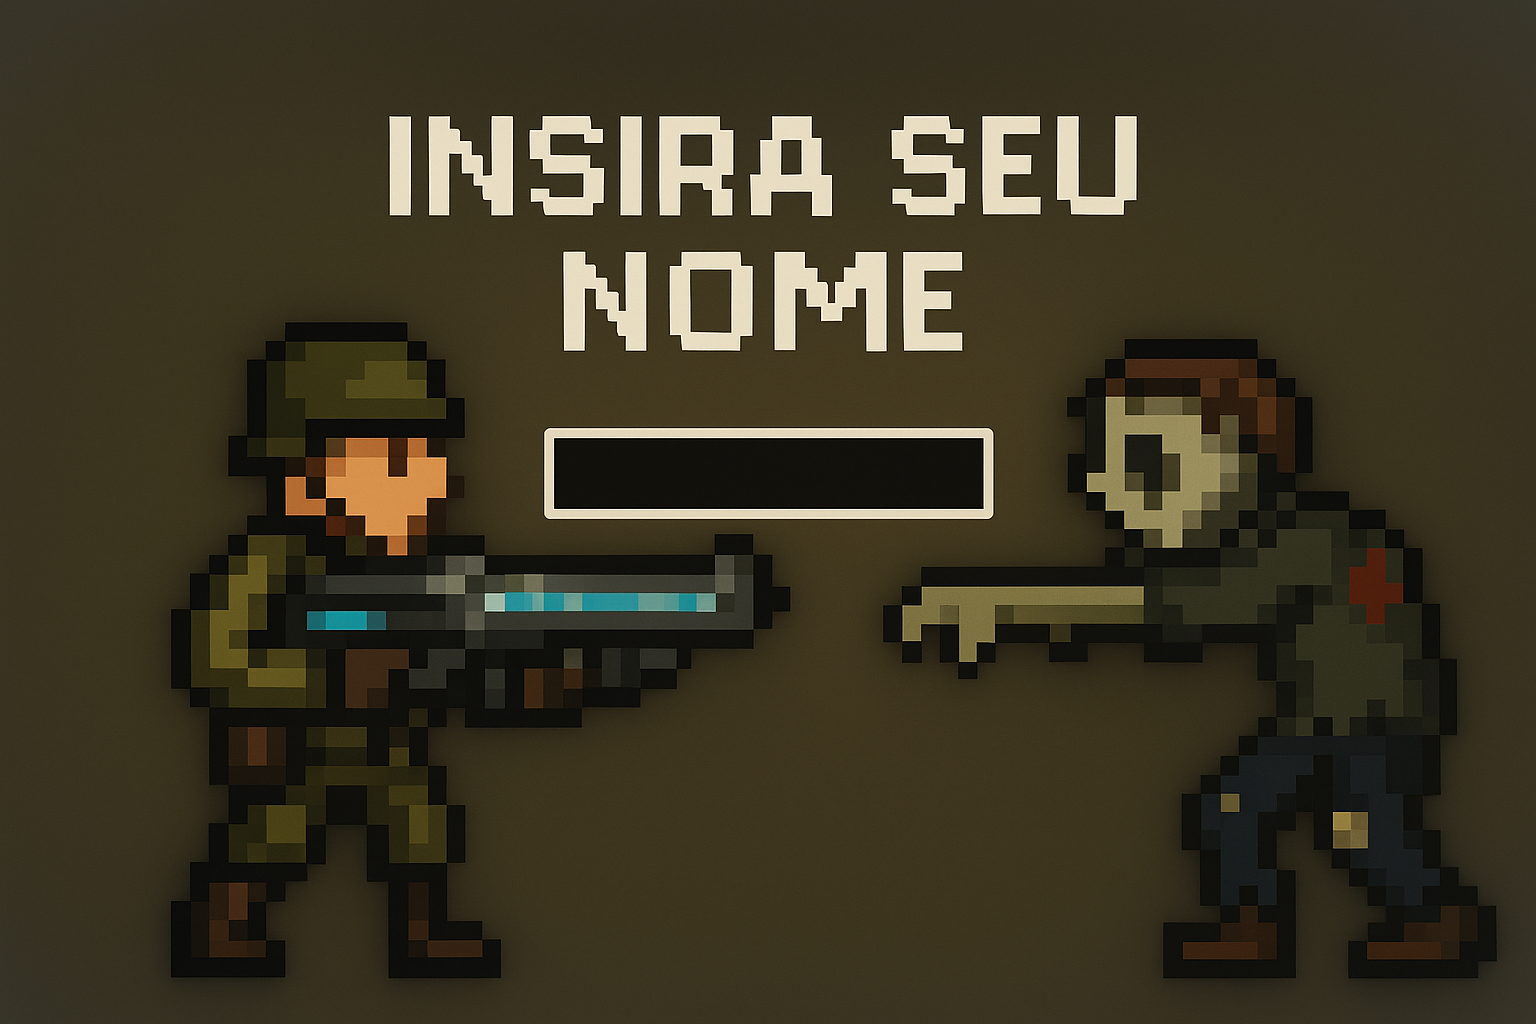
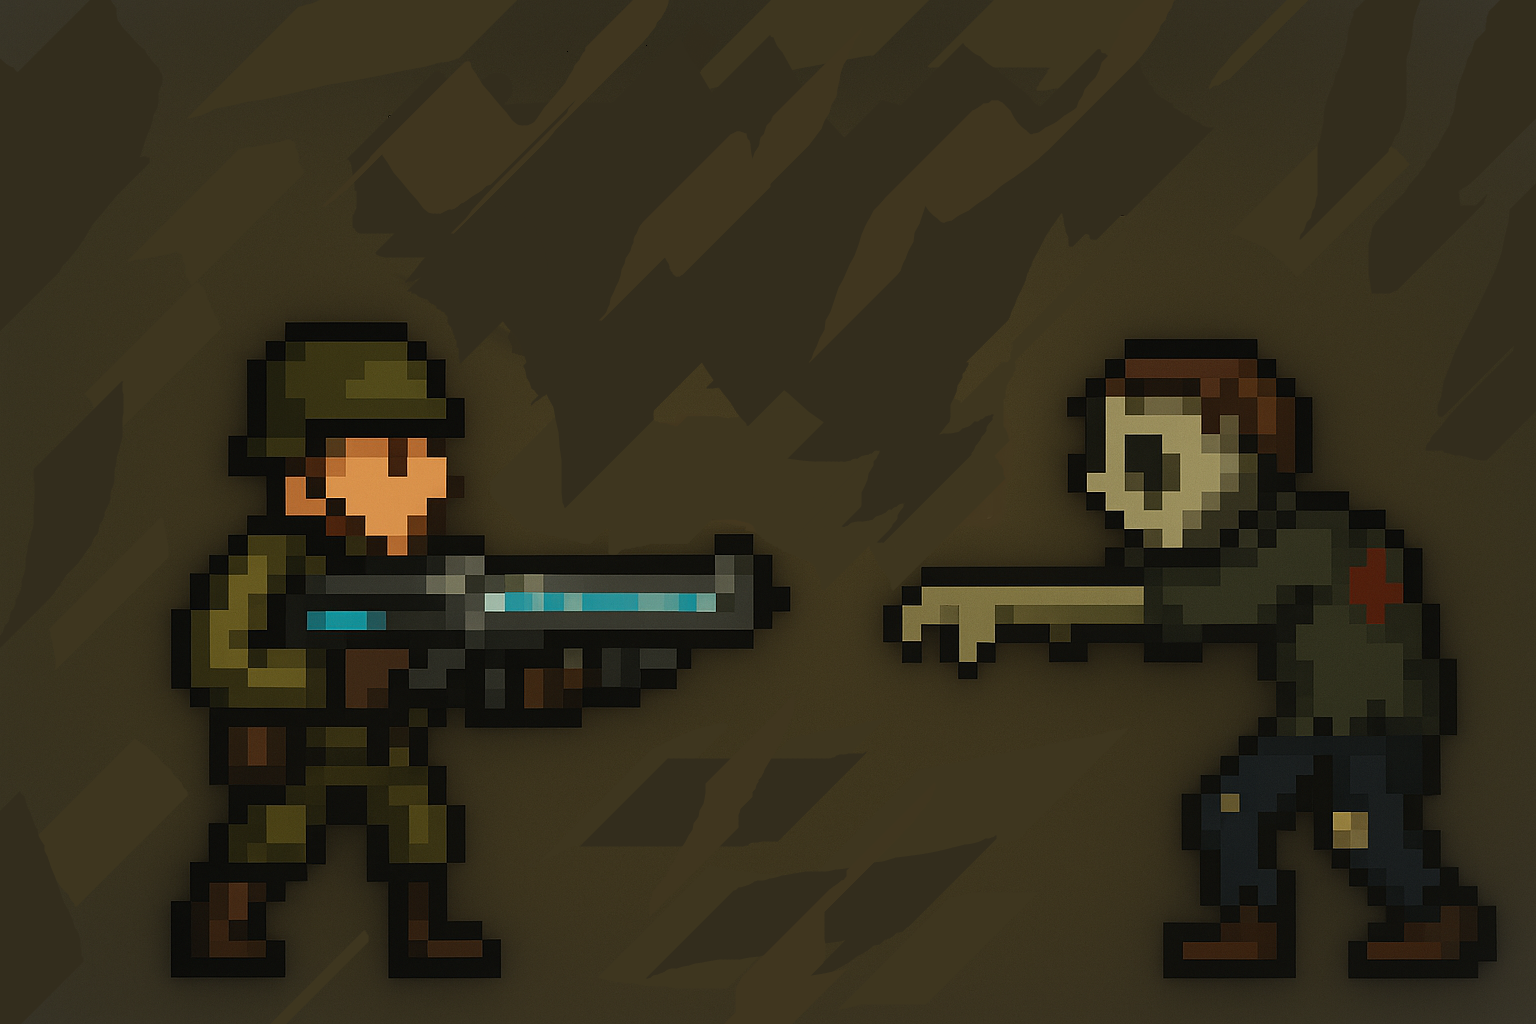
novo commit, atualização e melhora no sistema de voz, incremento nova foto de fundo inicio e melhora nos codigos

Changed region(s): [[0.25, 0.0938, 0.75, 0.3438], [0.3438, 0.4062, 0.6562, 0.5312]]

diff --git a/main.py b/main.py
@@ -1,20 +1,20 @@
 
 import pygame, random, os, math, datetime
-from recursos.funcoes import limparTela, aguarde, reconhecimentoVoz, pc_falar
+import speech_recognition as sr
+import pyttsx3
 
 pygame.init()
 pygame.mixer.init()
 
-# --- Configurações da Tela ---
 LARGURA, ALTURA = 1000, 700
 TELA = pygame.display.set_mode((LARGURA, ALTURA))
 pygame.display.set_caption("Defenda o Tesouro")
 
-# --- Cores ---
 BRANCO = (255, 255, 255)
 VERMELHO = (255, 0, 0)
+CINZA_CLARO = (200, 200, 200)
+PRETO = (0, 0, 0)
 
-# --- Função para Carregar Imagens ---
 def carregar_imagem(nome, tamanho=None):
     caminho = os.path.join(os.path.dirname(__file__), "recursos", nome)
     if not os.path.exists(caminho):
@@ -24,13 +24,62 @@ def carregar_imagem(nome, tamanho=None):
         imagem = pygame.transform.scale(imagem, tamanho)
     return imagem
 
-# --- Carregamento de Mídia (sem iniciar música ainda) ---
+def aguarde(ms):
+    pygame.time.delay(ms)
+
+def limparTela(tela, cor=(0,0,0)):
+    tela.fill(cor)
+
+def reconhecimentoVoz():
+    r = sr.Recognizer()
+    r.energy_threshold = 400
+    r.dynamic_energy_threshold = True
+    r.pause_threshold = 0.8
+    r.non_speaking_duration = 0.5
+
+    with sr.Microphone() as source:
+        print("Calibrando ruído ambiente... Por favor, aguarde.")
+        r.adjust_for_ambient_noise(source, duration=1)
+        print("Pronto! Aguardando seu nome...")
+        
+        try:
+            
+            audio = r.listen(source, timeout=6.5, phrase_time_limit=5)
+        except sr.WaitTimeoutError:
+            print("Nenhuma fala detectada dentro do tempo limite.")
+            return ""
+        except Exception as e:
+            print(f"Erro ao capturar áudio: {e}")
+            return ""
+
+    try:
+        nome = r.recognize_google(audio, language="pt-BR")
+        print(f"Nome reconhecido: {nome}")
+        return nome
+    except sr.UnknownValueError:
+        print("Não foi possível entender o que você disse.")
+        return ""
+    except sr.RequestError as e:
+        print(f"Erro ao solicitar resultados do serviço Google Speech Recognition; {e}")
+        print("Verifique sua conexão com a internet ou as configurações da API.")
+        return ""
+
+def pc_falar(texto, voz_grossa=False):
+    engine = pyttsx3.init()
+    
+    if voz_grossa:
+        engine.setProperty('rate', 150)
+        engine.setProperty('volume', 0.9)
+    
+    engine.say(texto)
+    engine.runAndWait()
+
 fundo_img = carregar_imagem("fundo.png", (LARGURA, ALTURA))
 jogador_img = carregar_imagem("jogador.png", (80, 100))
 inimigo_img = carregar_imagem("inimigo.png", (80, 100))
 tesouro_img = carregar_imagem("tesouro.png", (50, 80))
 erva_daninha_img = carregar_imagem("erva_daninha.png", (60, 60))
-
+tela_inicio_img = carregar_imagem("tela.inicio.png", (LARGURA, ALTURA))
 coracoes_imgs = [
     carregar_imagem("heart_full.png"),
     carregar_imagem("heart_2_3.png"),
@@ -38,63 +87,108 @@ coracoes_imgs = [
     carregar_imagem("heart_empty.png")
 ]
 
+limparTela
+
 som_tiro = pygame.mixer.Sound(os.path.join("recursos", "tiro.wav"))
 som_inimigo_morto = pygame.mixer.Sound(os.path.join("recursos", "inimigo_morto.wav"))
 som_game_over = pygame.mixer.Sound(os.path.join("recursos", "game_over.wav"))
 pygame.mixer.music.load(os.path.join("recursos", "tema_do_jogo.wav"))
 
-# Reduzir volume dos sons
 som_tiro.set_volume(0.4)
 som_inimigo_morto.set_volume(0.4)
 som_game_over.set_volume(0.4)
-pygame.mixer.music.set_volume(0.3)  # Música só tocará após o menu
+pygame.mixer.music.set_volume(0.3)
 
-# --- Tela Inicial com reconhecimento de voz ---
+limparTela
+
 def mostrar_tela_inicial():
     fonte_grande = pygame.font.SysFont(None, 64)
     fonte_pequena = pygame.font.SysFont(None, 32)
     nome = ""
     aguardando_nome = True
     esperando_comeco = False
+    
+    voz_ativada = True 
+    
+    input_rect = pygame.Rect(LARGURA // 2 - 200, 250, 400, 60)
+    cor_borda_input = BRANCO
+    
+    texto_instrucao_voz = fonte_pequena.render('Aperte "G" e fale seu nome', True, BRANCO)
+    texto_instrucao_digitar = fonte_pequena.render('Ou clique abaixo para digitar', True, BRANCO)
 
     while aguardando_nome:
-        TELA.fill((0, 0, 0))
-        texto_topo = fonte_grande.render("Digite seu nome", True, BRANCO)
-        texto_nome = fonte_grande.render(nome + "|", True, BRANCO)
-        texto_voz = fonte_pequena.render('Aperte "G" para falar seu nome', True, BRANCO)
+        TELA.blit(tela_inicio_img, (0, 0)) 
 
-        TELA.blit(texto_topo, (LARGURA // 2 - texto_topo.get_width() // 2, 180))
-        TELA.blit(texto_nome, (LARGURA // 2 - texto_nome.get_width() // 2, 260))
-        TELA.blit(texto_voz, (LARGURA // 2 - texto_voz.get_width() // 2, 340))
+        texto_topo = fonte_grande.render("Bem-vindo!", True, BRANCO)
+        TELA.blit(texto_topo, (LARGURA // 2 - texto_topo.get_width() // 2, 100))
+
+        
+        pygame.draw.rect(TELA, cor_borda_input, input_rect, 2)
+        
+        
+        if nome:
+            texto_nome_display = fonte_grande.render(nome, True, BRANCO)
+            TELA.blit(texto_nome_display, (input_rect.x + 10, input_rect.y + 5))
+        else:
+            if not voz_ativada: 
+                cursor_visivel = pygame.time.get_ticks() % 1000 < 500
+                texto_cursor = fonte_grande.render("|" if cursor_visivel else "", True, BRANCO)
+                TELA.blit(texto_cursor, (input_rect.x + 10, input_rect.y + 5))
+            else: 
+                texto_aguardando = fonte_pequena.render("Fale seu nome...", True, BRANCO)
+                TELA.blit(texto_aguardando, (input_rect.x + 10, input_rect.y + (input_rect.height // 2) - (texto_aguardando.get_height() // 2)))
+
+
+        
+        TELA.blit(texto_instrucao_voz, (LARGURA // 2 - texto_instrucao_voz.get_width() // 2, 340))
+        TELA.blit(texto_instrucao_digitar, (LARGURA // 2 - texto_instrucao_digitar.get_width() // 2, 400))
+
         pygame.display.flip()
 
         for evento in pygame.event.get():
             if evento.type == pygame.QUIT:
                 pygame.quit()
                 exit()
+            
+            if evento.type == pygame.MOUSEBUTTONDOWN:
+                if input_rect.collidepoint(evento.pos): 
+                    voz_ativada = False 
+                    cor_borda_input = CINZA_CLARO 
+                    nome = "" 
+                else: 
+                    voz_ativada = True 
+                    cor_borda_input = BRANCO 
+                    nome = "" 
+
             if evento.type == pygame.KEYDOWN:
-                if evento.key == pygame.K_RETURN and nome:
-                    aguardando_nome = False
-                    esperando_comeco = True
-                    pc_falar(f"Bem-vindo, {nome}", voz_grossa=True)
-                elif evento.key == pygame.K_BACKSPACE:
+                if evento.key == pygame.K_RETURN:
+                    
+                    if not voz_ativada and nome:
+                        aguardando_nome = False
+                        esperando_comeco = True
+                        pc_falar(f"Bem-vindo, {nome}", voz_grossa=True)
+                elif evento.key == pygame.K_BACKSPACE and not voz_ativada:
                     nome = nome[:-1]
-                elif evento.key == pygame.K_g:
+                elif evento.key == pygame.K_g and voz_ativada: 
                     try:
                         pc_falar("Diga seu nome", voz_grossa=True)
-                        nome_voz = reconhecimentoVoz().capitalize()
+                        nome_voz = reconhecimentoVoz().strip().capitalize()
                         if nome_voz:
                             nome = nome_voz
+                            
                             pc_falar(f"Bem-vindo, {nome}", voz_grossa=True)
                             aguardando_nome = False
                             esperando_comeco = True
+                        else:
+                            pc_falar("Não entendi o seu nome. Por favor, tente falar novamente.", voz_grossa=True)
+                            nome = ""
                     except Exception as e:
                         print(f"Erro no reconhecimento de voz: {e}")
-                        nome = "Jogador"
-                        pc_falar("Bem-vindo, Jogador", voz_grossa=True)
-                        aguardando_nome = False
-                        esperando_comeco = True
-                elif len(nome) < 12:
+                        pc_falar("Ocorreu um erro no reconhecimento de voz. Por favor, clique e digite seu nome.", voz_grossa=True)
+                        voz_ativada = False 
+                        cor_borda_input = CINZA_CLARO
+                        nome = ""
+                elif not voz_ativada and len(nome) < 12:
                     nome += evento.unicode
 
     while esperando_comeco:
@@ -123,10 +217,9 @@ def mostrar_tela_inicial():
             if evento.type == pygame.KEYDOWN and evento.key == pygame.K_SPACE:
                 esperando_comeco = False
 
-    # Música só inicia agora
     pygame.mixer.music.play(-1)
     return nome
-# --- Log de Partidas ---
+
 def salvar_log(nome_jogador, pontos):
     if not os.path.exists("logs"):
         os.makedirs("logs")
@@ -149,7 +242,7 @@ def mostrar_ultimos_registros_na_tela(tela, fonte, caminho_log):
         texto = fonte.render(linha, True, BRANCO)
         tela.blit(texto, (LARGURA // 2 - texto.get_width() // 2, ALTURA // 2 + 90 + i * 30))
 
-# --- Inicialização do Jogo ---
+
 nome_jogador = mostrar_tela_inicial()
 
 jogador = pygame.Rect(125, ALTURA // 2 - jogador_img.get_height() // 2, jogador_img.get_width(), jogador_img.get_height())
@@ -163,26 +256,23 @@ erva_daninha_dx = random.choice([-1, 1]) * random.uniform(0.5, 1.5)
 erva_daninha_dy = random.choice([-1, 1]) * random.uniform(0.5, 1.5)
 tempo_ultima_mudanca_erva = pygame.time.get_ticks()
 angulo_erva = 0
-
 balas = []
 inimigos = []
-
 vel_jogador = 5
 vel_bala = 10
 vel_inimigo = 3
 intervalo_spawn = 1500
 tempo_ultimo_inimigo = pygame.time.get_ticks()
-
 vida_tesouro = 3
 pontuacao = 0
-
 fonte = pygame.font.SysFont(None, 36)
 clock = pygame.time.Clock()
 tempo_inicial = pygame.time.get_ticks()
 paused = False
 rodando = True
 
-# --- Loop Principal ---
+limparTela
+
 while rodando:
     clock.tick(60)
     tempo_atual = pygame.time.get_ticks()
@@ -296,8 +386,7 @@ while rodando:
         rodando = False
         pygame.mixer.music.stop()
 
-# --- Game Over ---
-TELA.fill((0, 0, 0))
+TELA.fill(PRETO)
 msg = fonte.render(f"Game Over! Pontuação final: {pontuacao}", True, BRANCO)
 TELA.blit(msg, (LARGURA // 2 - msg.get_width() // 2, ALTURA // 2))
 
@@ -307,4 +396,3 @@ mostrar_ultimos_registros_na_tela(TELA, fonte, "logs/registros.txt")
 pygame.display.flip()
 pygame.time.delay(5000)
 pygame.quit()
-
